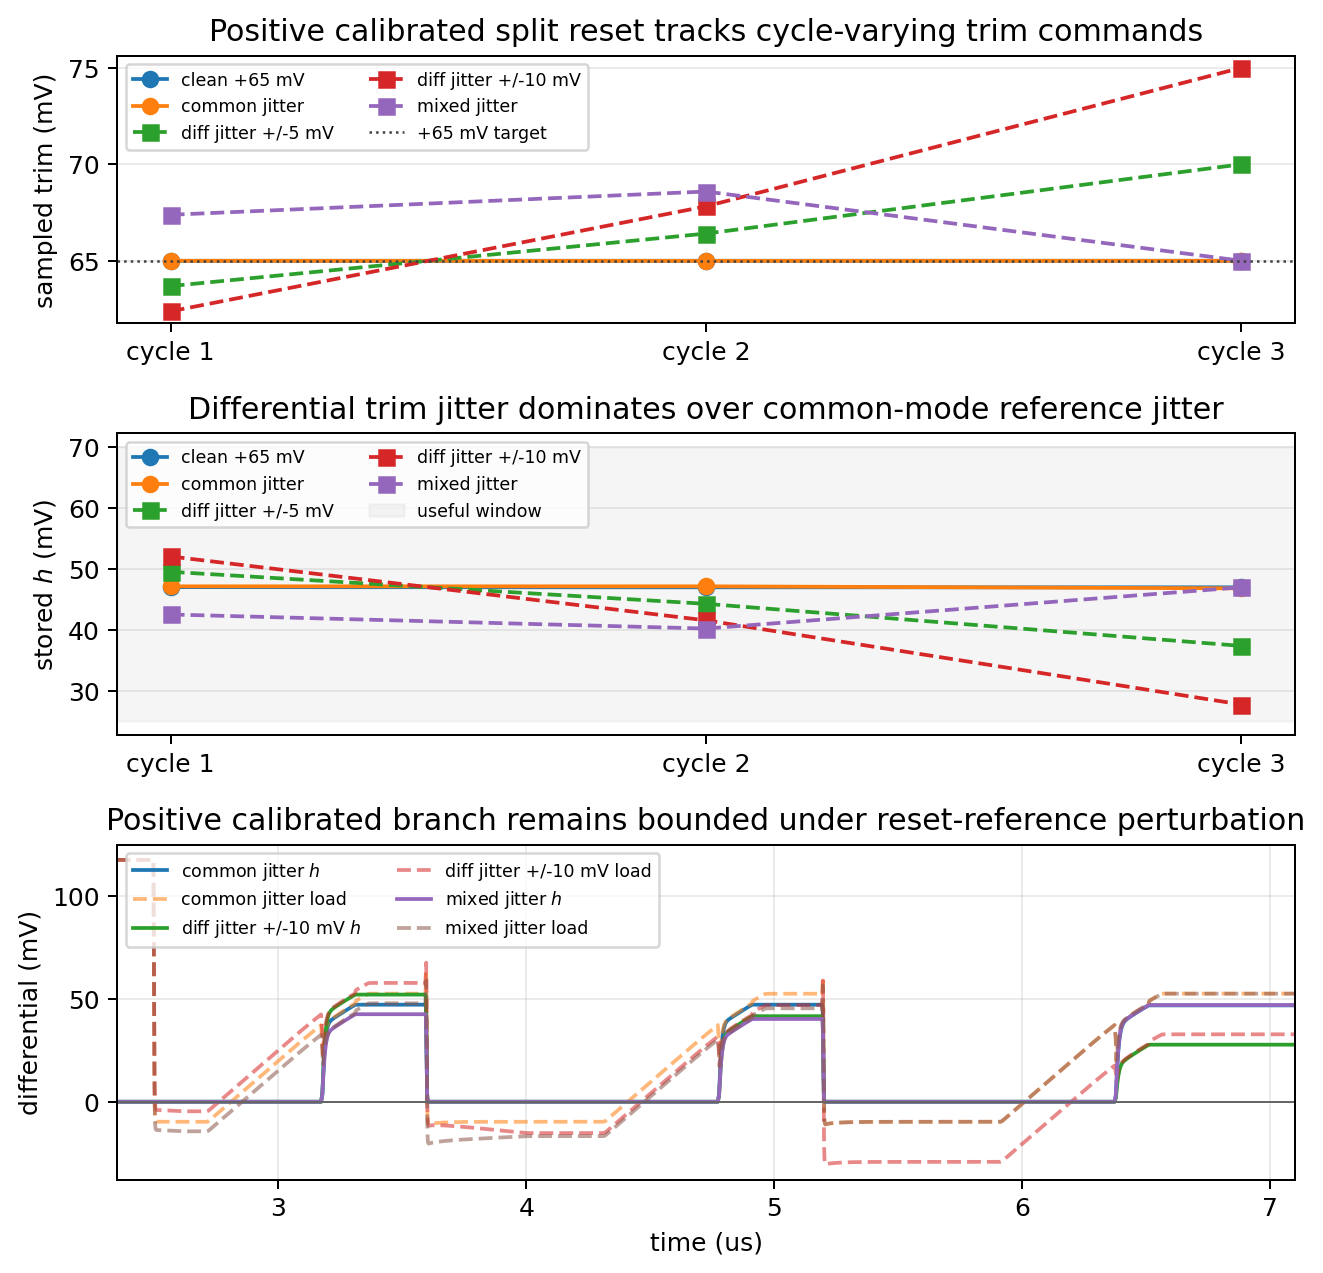
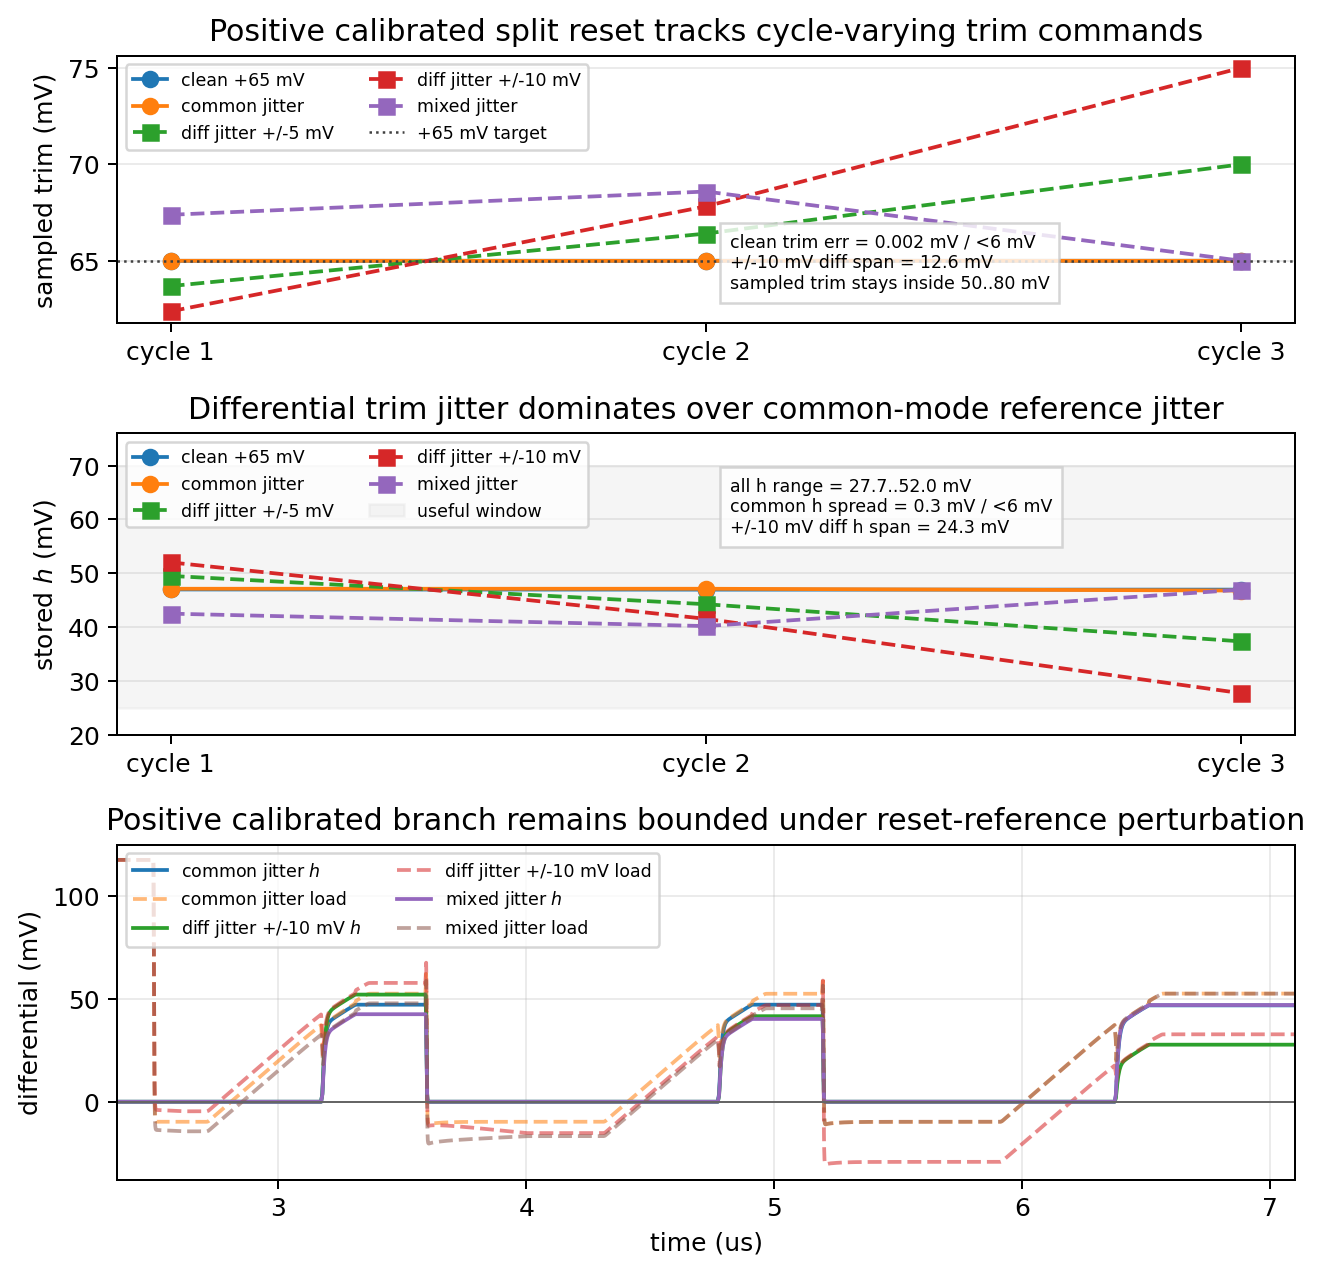
Annotate shifted gate reset reference margins

diff --git a/spice/run_mos_cell_characterization.py b/spice/run_mos_cell_characterization.py
@@ -11525,6 +11525,25 @@ quit
         shift_reset_ref_perturb_store_samples[reset_ref_perturb_destructive_idx[1]] > 0.010,
         "20 mV destructive physical reset-reference differential perturbation should stay positive but expose limited margin",
     )
+    reset_ref_perturb_common_store_error = float(
+        np.max(
+            np.abs(
+                shift_reset_ref_perturb_store_samples[reset_ref_perturb_common_idx]
+                - shift_reset_ref_perturb_store_samples[reset_ref_perturb_nominal_idx]
+            )
+        )
+    )
+    reset_ref_perturb_helpful_gain = float(
+        shift_reset_ref_perturb_store_samples[reset_ref_perturb_helpful_idx]
+        - shift_reset_ref_perturb_store_samples[reset_ref_perturb_nominal_idx]
+    )
+    reset_ref_perturb_destructive_10_drop = float(
+        shift_reset_ref_perturb_store_samples[reset_ref_perturb_nominal_idx]
+        - shift_reset_ref_perturb_store_samples[reset_ref_perturb_destructive_idx[0]]
+    )
+    reset_ref_perturb_destructive_20_store = float(
+        shift_reset_ref_perturb_store_samples[reset_ref_perturb_destructive_idx[1]]
+    )
 
     shift_noise_cases = [
         ("nominal", "nominal", 0.0, 0.0),
@@ -12526,6 +12545,17 @@ quit
         > 0.005,
         "common-mode reference perturbation deck should expose finite reset-settling/feedthrough rather than ideal tracking",
     )
+    shift_refpert_trim_error = np.abs(shift_refpert_gate_samples - shift_refpert_expected_trims)
+    shift_refpert_common_error = np.abs(shift_refpert_common_samples - shift_refpert_expected_common)
+    shift_refpert_clean_trim_error = float(np.max(shift_refpert_trim_error[shift_refpert_index["clean"]]))
+    shift_refpert_common_tracking_error = float(
+        np.max(shift_refpert_common_error[shift_refpert_index["common_jitter"]])
+    )
+    shift_refpert_common_h_spread = float(np.ptp(shift_refpert_h_samples[shift_refpert_index["common_jitter"]]))
+    shift_refpert_diff10_trim_span = float(np.ptp(shift_refpert_gate_samples[shift_refpert_index["diff_jitter10"]]))
+    shift_refpert_diff10_h_span = float(np.ptp(shift_refpert_h_samples[shift_refpert_index["diff_jitter10"]]))
+    shift_refpert_h_min = float(np.min(shift_refpert_h_samples))
+    shift_refpert_h_max = float(np.max(shift_refpert_h_samples))
 
     def run_trimmed_reuse_skew_law_case(
         name: str,
@@ -13287,6 +13317,15 @@ quit
         ),
         "positive calibrated common-mode jitter should remain secondary to differential trim jitter",
     )
+    shift_polref_clean_trim_error = float(
+        np.max(np.abs(shift_polref_gate_samples[shift_polref_index["clean_pos65"]] - 0.065))
+    )
+    shift_polref_common_h_spread = float(np.ptp(shift_polref_h_samples[shift_polref_index["common_jitter_pos65"]]))
+    shift_polref_diff10_trim_span = float(np.ptp(shift_polref_gate_samples[shift_polref_index["diff_jitter10_pos65"]]))
+    shift_polref_diff10_h_span = float(np.ptp(shift_polref_h_samples[shift_polref_index["diff_jitter10_pos65"]]))
+    shift_polref_mixed_h_span = float(np.ptp(shift_polref_h_samples[shift_polref_index["mixed_jitter_pos65"]]))
+    shift_polref_h_min = float(np.min(shift_polref_h_samples))
+    shift_polref_h_max = float(np.max(shift_polref_h_samples))
 
     shift_reset_corner_specs = [
         ("strong", "strong TG", 0.500, -0.500),
@@ -15379,6 +15418,19 @@ quit
     shift_reset_ref_perturb_axes[0].set_ylabel("stored activation (mV)")
     shift_reset_ref_perturb_axes[0].set_title("Physical reset-reference differential error changes shifted-gate margin")
     shift_reset_ref_perturb_axes[0].grid(True, alpha=0.25)
+    shift_reset_ref_perturb_axes[0].text(
+        0.04,
+        0.58,
+        "nominal store = "
+        f"{1e3 * shift_reset_ref_perturb_store_samples[reset_ref_perturb_nominal_idx]:.1f} mV\n"
+        "helpful -10 mV gain = "
+        f"{1e3 * reset_ref_perturb_helpful_gain:.1f} mV\n"
+        "destructive +10 mV drop = "
+        f"{1e3 * reset_ref_perturb_destructive_10_drop:.1f} mV",
+        transform=shift_reset_ref_perturb_axes[0].transAxes,
+        fontsize="x-small",
+        bbox={"facecolor": "white", "alpha": 0.82, "edgecolor": "0.8"},
+    )
     shift_reset_ref_perturb_axes[0].legend(loc="upper right", fontsize="small")
     shift_reset_ref_perturb_x = np.arange(len(shift_reset_ref_perturb_labels))
     shift_reset_ref_perturb_axes[1].bar(
@@ -15404,7 +15456,20 @@ quit
     shift_reset_ref_perturb_axes[1].set_xticklabels(shift_reset_ref_perturb_labels, rotation=18, ha="right")
     shift_reset_ref_perturb_axes[1].set_ylabel("sampled differential (mV)")
     shift_reset_ref_perturb_axes[1].set_title("Common reset-reference errors are mild; differential errors consume margin")
+    shift_reset_ref_perturb_axes[1].set_ylim(-14, 88)
     shift_reset_ref_perturb_axes[1].grid(True, axis="y", alpha=0.25)
+    shift_reset_ref_perturb_axes[1].text(
+        0.04,
+        0.72,
+        "common +/-10 mV store error = "
+        f"{1e3 * reset_ref_perturb_common_store_error:.1f} mV / <10 mV\n"
+        "destructive +20 mV store = "
+        f"{1e3 * reset_ref_perturb_destructive_20_store:.1f} mV / >10 mV\n"
+        "differential trim controls margin",
+        transform=shift_reset_ref_perturb_axes[1].transAxes,
+        fontsize="x-small",
+        bbox={"facecolor": "white", "alpha": 0.82, "edgecolor": "0.8"},
+    )
     shift_reset_ref_perturb_axes[1].legend(loc="upper right", ncol=3, fontsize="small")
     shift_reset_ref_perturb_fig.tight_layout()
     save_plot(
@@ -15908,7 +15973,21 @@ quit
     shift_refpert_axes[0].set_xticklabels(["reset 0", "reset 1", "reset 2"])
     shift_refpert_axes[0].set_ylabel("gate diff (mV)")
     shift_refpert_axes[0].set_title("PWL reset references produce bounded cycle-by-cycle trim errors")
+    shift_refpert_axes[0].set_ylim(-46, -25)
     shift_refpert_axes[0].grid(True, alpha=0.25)
+    shift_refpert_axes[0].text(
+        0.54,
+        0.68,
+        "clean trim err = "
+        f"{1e3 * shift_refpert_clean_trim_error:.3f} mV / <6 mV\n"
+        "common tracking err = "
+        f"{1e3 * shift_refpert_common_tracking_error:.1f} mV\n"
+        "+/-10 mV diff span = "
+        f"{1e3 * shift_refpert_diff10_trim_span:.1f} mV",
+        transform=shift_refpert_axes[0].transAxes,
+        fontsize="x-small",
+        bbox={"facecolor": "white", "alpha": 0.82, "edgecolor": "0.8"},
+    )
     shift_refpert_axes[0].legend(loc="lower left", ncol=2, fontsize="x-small")
     for idx, label in enumerate(shift_refpert_labels):
         shift_refpert_axes[1].plot(
@@ -15930,7 +16009,21 @@ quit
     shift_refpert_axes[1].set_xticklabels(["cycle 1", "cycle 2", "cycle 3"])
     shift_refpert_axes[1].set_ylabel("cycle samples (mV)")
     shift_refpert_axes[1].set_title("Differential trim jitter dominates; common-mode jitter is small")
+    shift_refpert_axes[1].set_ylim(-3, 96)
     shift_refpert_axes[1].grid(True, axis="y", alpha=0.25)
+    shift_refpert_axes[1].text(
+        0.52,
+        0.08,
+        "all h range = "
+        f"{1e3 * shift_refpert_h_min:.1f}..{1e3 * shift_refpert_h_max:.1f} mV\n"
+        "common h spread = "
+        f"{1e3 * shift_refpert_common_h_spread:.1f} mV / <6 mV\n"
+        "+/-10 mV diff h span = "
+        f"{1e3 * shift_refpert_diff10_h_span:.1f} mV",
+        transform=shift_refpert_axes[1].transAxes,
+        fontsize="x-small",
+        bbox={"facecolor": "white", "alpha": 0.82, "edgecolor": "0.8"},
+    )
     shift_refpert_axes[1].legend(loc="upper left", ncol=2, fontsize="x-small")
     for label, rpt, load, store in shift_refpert_traces:
         shift_refpert_axes[2].plot(1e6 * rpt, 1e3 * store, label=f"{label} $h$")
@@ -16289,6 +16382,18 @@ quit
     shift_polref_axes[0].set_ylabel("sampled trim (mV)")
     shift_polref_axes[0].set_title("Positive calibrated split reset tracks cycle-varying trim commands")
     shift_polref_axes[0].grid(True, axis="y", alpha=0.25)
+    shift_polref_axes[0].text(
+        0.52,
+        0.13,
+        "clean trim err = "
+        f"{1e3 * shift_polref_clean_trim_error:.3f} mV / <6 mV\n"
+        "+/-10 mV diff span = "
+        f"{1e3 * shift_polref_diff10_trim_span:.1f} mV\n"
+        "sampled trim stays inside 50..80 mV",
+        transform=shift_polref_axes[0].transAxes,
+        fontsize="x-small",
+        bbox={"facecolor": "white", "alpha": 0.82, "edgecolor": "0.8"},
+    )
     shift_polref_axes[0].legend(loc="upper left", ncol=2, fontsize="x-small")
     for idx, label in enumerate(shift_polref_labels):
         style = "o-" if idx in {0, 1} else "s--"
@@ -16298,7 +16403,21 @@ quit
     shift_polref_axes[1].set_xticklabels(["cycle 1", "cycle 2", "cycle 3"])
     shift_polref_axes[1].set_ylabel("stored $h$ (mV)")
     shift_polref_axes[1].set_title("Differential trim jitter dominates over common-mode reference jitter")
+    shift_polref_axes[1].set_ylim(20, 76)
     shift_polref_axes[1].grid(True, axis="y", alpha=0.25)
+    shift_polref_axes[1].text(
+        0.52,
+        0.67,
+        "all h range = "
+        f"{1e3 * shift_polref_h_min:.1f}..{1e3 * shift_polref_h_max:.1f} mV\n"
+        "common h spread = "
+        f"{1e3 * shift_polref_common_h_spread:.1f} mV / <6 mV\n"
+        "+/-10 mV diff h span = "
+        f"{1e3 * shift_polref_diff10_h_span:.1f} mV",
+        transform=shift_polref_axes[1].transAxes,
+        fontsize="x-small",
+        bbox={"facecolor": "white", "alpha": 0.82, "edgecolor": "0.8"},
+    )
     shift_polref_axes[1].legend(loc="upper left", ncol=2, fontsize="x-small")
     for label, prt, load, store in shift_polref_traces:
         shift_polref_axes[2].plot(1e6 * prt, 1e3 * store, label=f"{label} $h$")

diff --git a/engineering_log.md b/engineering_log.md
@@ -810,3 +810,4 @@
 - Added assertion-derived margin callouts to the basic MOS synapse mismatch and common-mode figures. The mismatch plot now reports the bounded zero offset (`20 mV` max under the +/-20 mV threshold-skew fixture), the mirrored gate-swapped W- zero error, retained current swing, and offset span. The common-mode plot now reports peak-current range (`465--486 uA`), minimum sign margin (`315 uA`), centering error (`0.4%` of peak), and W-/W+ mirror error. Regenerated the synapse family through ngspice and inspected the resulting PNGs; this closes a paper-figure readability gap without changing the underlying circuits or thresholds.
 - Added assertion-derived callouts to the restored-gate hybrid update-to-forward integration and same-cell reuse plots. The single-sample integration plot now shows stored error, selected/complement restored-gate levels, sampled activation, W/B write magnitudes, pre-read quietness, read preactivation, forward-load/store magnitudes, and W/B read-disturb. The reuse plot now shows first/second signed error stores, reset residue, first W/B writes, opposite-update cancellation residue, reset z/h residue, and cancelled final activation. Reran the full `--only update` ngspice suite; all existing update-family assertions still pass, and the two regenerated PNGs now expose the measured integration margins directly.
 - Added assertion-derived callouts to the update-forward quadrant and repeated-read/reuse figures. The quadrant plot now exposes stored error symmetry, selected/complement restored-gate separation, signed W/B update minima and spread, minimum preactivation, stored activation margin, and sign alignment across all activation/error quadrants. The read-reuse plots now show W/B drift, cycle-to-cycle preactivation and activation spread, reset residue, and positive/negative mirror error, making the ngspice-backed reuse margins visible without relying on caption text alone.
+- Added ngspice-derived callouts to the shifted-gate reset-reference perturbation figures. The single-cycle `0.80 V` reset-reference plot now reports the nominal `52.0 mV` store, the `+17.2 mV` helpful differential gain, the `17.6 mV` destructive `+10 mV` drop, the `2.6 mV` common-mode store error, and the remaining `16.5 mV` destructive `+20 mV` margin. The multi-cycle negative/positive trim perturbation plots now expose clean trim error (`~0.001--0.002 mV`), common-reference tracking error, differential trim span (`12.6 mV`), common-jitter activation spread (`0.3 mV`), and differential-jitter activation span (`~24 mV`). This keeps the reset-reference calibration story tied to measured SPICE margins rather than visual trend interpretation alone.
